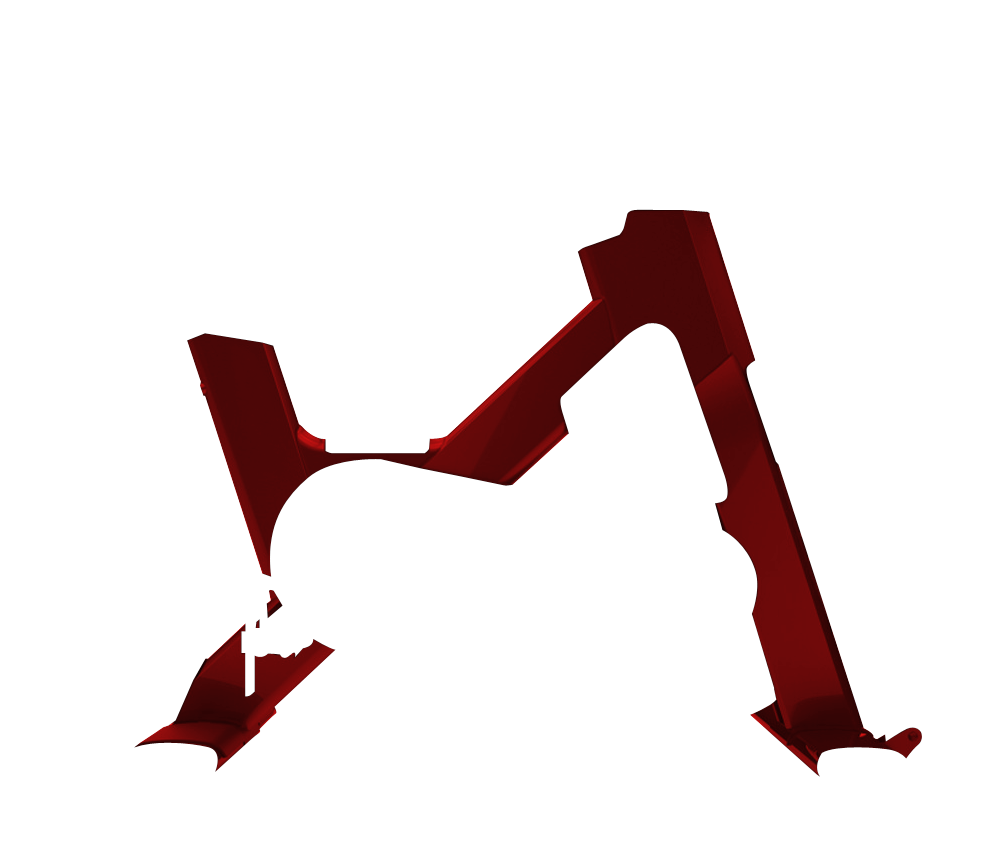
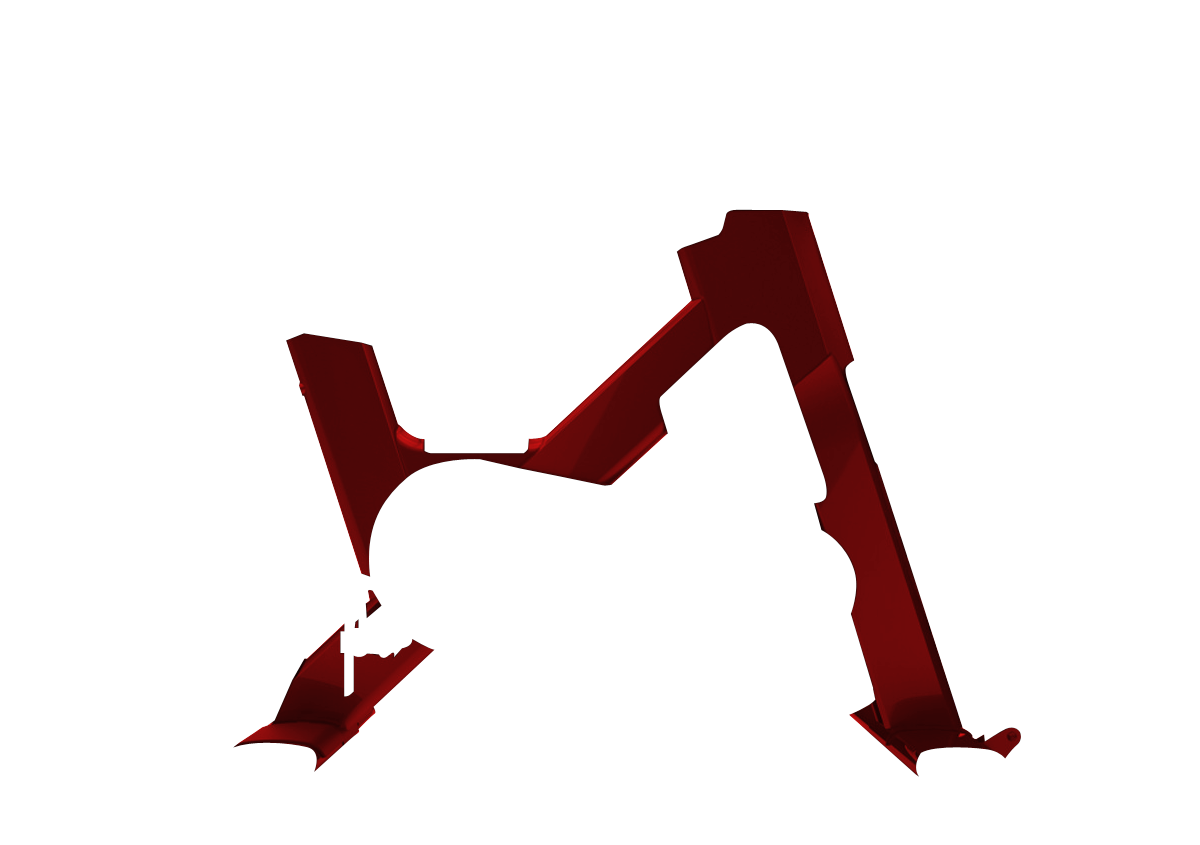
Update color and wheel

diff --git a/public/javascripts/myscript.js b/public/javascripts/myscript.js
@@ -2,7 +2,7 @@ var positions = {'Schwinn AC Sportcycle':{'x':786,'y':599,'width':146,'height':1
 						'Schwinn AC Sportcycle Carbonblue':{'x':920,'y':701,'width':173,'height':188},
 						'Schwinn ACPP Carbonblue':{'x':775,'y':705,'width':187,'height':187},
 						'Schwinn IC Pro 20':{'x':760,'y':535,'width':246,'height':255},
-						'Star Trac Studio 7':{'x':579,'y':452,'width':254,'height':258},
+						'Star Trac Studio 7':{'x':578,'y':453,'width':254,'height':258},
 						'Schwinn IC Pro Cycle':{'x':891,'y':607,'width':328,'height':320},
 						'Star Trac Blade':{'x':806,'y':722,'width':334,'height':341},
 						'Star Trac NXT':{'x':815,'y':731,'width':300,'height':319},
@@ -29,14 +29,14 @@ var positions = {'Schwinn AC Sportcycle':{'x':786,'y':599,'width':146,'height':1
 		bike_load();
 
 		// fabric.Image.fromURL('images/stock-bike.jpg', function(img) {
-		// 	mockup_rate = canvas.width/img.width;
-		// 	mockup_img = img.set({ left: canvas.width/2-img.width*mockup_rate/2, top: canvas.height/2-img.height*mockup_rate/2, angle: 0, scaleX:mockup_rate, scaleY:mockup_rate, style:'opacity: 1;', selectable: false })
+		// 	mockup_rate = ((canvas.width))/img.width;
+		// 	mockup_img = img.set({ left: ((canvas.width))/2-img.width*mockup_rate/2, top: canvas.height/2-img.height*mockup_rate/2, angle: 0, scaleX:mockup_rate, scaleY:mockup_rate, style:'opacity: 1;', selectable: false })
 		// 	canvas.add(mockup_img);
 		// 	canvas.renderAll();
 		// 	fabric.Image.fromURL('images/Frame.png', function(img) {
 		// 		var sss=img.width*mockup_rate;
 		// 		var sss1 = img.height*mockup_rate;
-		// 		frame_img = img.set({ left: canvas.width/2-sss/2, top: canvas.height/2-sss1/2, scaleX:mockup_rate, scaleY:mockup_rate, angle: 0, selectable: false})
+		// 		frame_img = img.set({ left: ((canvas.width))/2-sss/2, top: canvas.height/2-sss1/2, scaleX:mockup_rate, scaleY:mockup_rate, angle: 0, selectable: false})
 		// 		// console.log(frame_img.left+","+frame_img.top);
 		// 		canvas.add(frame_img);
 		// 		canvas.renderAll();
@@ -44,7 +44,7 @@ var positions = {'Schwinn AC Sportcycle':{'x':786,'y':599,'width':146,'height':1
 		// 	// fabric.Image.fromURL('images/wheel.png', function(img) {
 		// 	// 	var sss=img.width*mockup_rate;
 		// 	// 	var sss1 = img.height*mockup_rate;
-		// 	// 	wheel_img = img.set({ left: canvas.width/2-sss/2, top: canvas.height/2-sss1/2, scaleX:mockup_rate, scaleY:mockup_rate, angle: 0, selectable: false})
+		// 	// 	wheel_img = img.set({ left: ((canvas.width))/2-sss/2, top: canvas.height/2-sss1/2, scaleX:mockup_rate, scaleY:mockup_rate, angle: 0, selectable: false})
 		// 	// 	// console.log(frame_img.left+","+frame_img.top);
 		// 	// 	canvas.add(wheel_img);
 		// 	// 	canvas.renderAll();
@@ -65,17 +65,19 @@ var positions = {'Schwinn AC Sportcycle':{'x':786,'y':599,'width':146,'height':1
 			this_wheel_position.height = positions[val].height;
 			canvas.remove(wheel_img);
 			fabric.Image.fromURL('images/'+val+'/'+val1+'.png', function(img) {
-				mockup_rate = canvas.width/img.width<canvas.height/img.height?canvas.width/img.width:canvas.height/img.height;
-				console.log(canvas.width/img.width);
+				mockup_rate = ((canvas.width))/img.width<canvas.height/img.height?((canvas.width))/img.width:canvas.height/img.height;
+				rate11 = ((canvas.width))/img.width;
+				rate12 = canvas.height/img.height;
+				console.log(((canvas.width))/img.width);
 				console.log(canvas.height/img.height);
 				console.log(mockup_rate);
-				mockup_img = img.set({ left: canvas.width/2-img.width*mockup_rate/2, top: canvas.height/2-img.height*mockup_rate/2, angle: 0, scaleX:mockup_rate, scaleY:mockup_rate, style:'opacity: 1;', selectable: false })
+				mockup_img = img.set({ left: ((canvas.width))/2-img.width*mockup_rate/2, top: canvas.height/2-img.height*mockup_rate/2, angle: 0, scaleX:mockup_rate, scaleY:mockup_rate, style:'opacity: 1;', selectable: false })
 				canvas.add(mockup_img);
 				canvas.renderAll();
 				fabric.Image.fromURL('images/'+val+'/'+val1+'-Frame.png', function(img) {
 					sss=img.width*mockup_rate;
 					sss1 = img.height*mockup_rate;
-					frame_img = img.set({ left: canvas.width/2-sss/2, top: canvas.height/2-sss1/2, scaleX:mockup_rate, scaleY:mockup_rate, angle: 0, selectable: false})
+					frame_img = img.set({ left: mockup_img.left, top: mockup_img.top, scaleX:mockup_rate, scaleY:mockup_rate, angle: 0, selectable: false})
 					// console.log(frame_img.left+","+frame_img.top);
 					canvas.add(frame_img);
 					canvas.renderAll();
@@ -84,8 +86,9 @@ var positions = {'Schwinn AC Sportcycle':{'x':786,'y':599,'width':146,'height':1
 				fabric.Image.fromURL('images/'+val+'/'+val1+'-Flywheel.png', function(img) {
 					var sss=img.width*mockup_rate;
 					var sss1 = img.height*mockup_rate;
-					// wheel_img = img.set({ left: canvas.width/2-wheel_offset_x*(canvas.width/2/488), top: canvas.height/2-wheel_offset_y*(canvas.height/2/309), scaleX:mockup_img.scaleX, scaleY:mockup_img.scaleY, angle: 0, selectable:false})
-					wheel_img = img.set({ left: this_wheel_position.x*mockup_rate, top: this_wheel_position.y*mockup_rate, scaleX:mockup_img.scaleX, width:this_wheel_position.width*mockup_rate, height:this_wheel_position.height*mockup_rate, scaleY:mockup_img.scaleY, angle: 0, selectable:false});
+					// wheel_img = img.set({ left: ((canvas.width))/2-wheel_offset_x*(((canvas.width))/2/488), top: canvas.height/2-wheel_offset_y*(canvas.height/2/309), scaleX:mockup_img.scaleX, scaleY:mockup_img.scaleY, angle: 0, selectable:false})
+					// left: (this_wheel_position.x)*mockup_rate+mockup_img.left+100,
+					wheel_img = img.set({ left: mockup_img.width*mockup_img.scaleX-150, top: (this_wheel_position.y)*mockup_rate+mockup_img.top, scaleX:mockup_img.scaleX, scaleY:mockup_img.scaleY, angle: 0, selectable:true});
 					canvas.add(wheel_img);
 					canvas.renderAll();
 					// canvas.setActiveObject(wheel_img);
@@ -258,28 +261,28 @@ var positions = {'Schwinn AC Sportcycle':{'x':786,'y':599,'width':146,'height':1
 							case 0:
 								// $("#seat-url").val(file.name);
 								canvas.remove(seat_img);
-								seat_img = img.set({ left: canvas.width/2-seat_offset_x*(canvas.width/2/488), top: canvas.height/2-seat_offset_y*(canvas.height/2/309), scaleX:20/img.width, scaleY:20/img.width, angle: 0})
+								seat_img = img.set({ left: ((canvas.width))/2-seat_offset_x*(((canvas.width))/2/488), top: canvas.height/2-seat_offset_y*(canvas.height/2/309), scaleX:20/img.width, scaleY:20/img.width, angle: 0})
 								canvas.add(seat_img);
 								canvas.setActiveObject(seat_img);
 								break;
 							case 1:
 								// $("#mark-url").val(file.name);
 								canvas.remove(mark_img);
-								mark_img = img.set({ left:canvas.width/2-mark_offset_x*(canvas.width/2/488), top: canvas.height/2-mark_offset_y*(canvas.height/2/309), scaleX:20/img.width, scaleY:20/img.width, angle: 0})
+								mark_img = img.set({ left:((canvas.width))/2-mark_offset_x*(((canvas.width))/2/488), top: canvas.height/2-mark_offset_y*(canvas.height/2/309), scaleX:20/img.width, scaleY:20/img.width, angle: 0})
 								canvas.add(mark_img);
 								canvas.setActiveObject(mark_img);
 								break;
 							case 2:
 								// $("#text-url").val(file.name);
 								canvas.remove(text_img);
-								text_img = img.set({ left: canvas.width/2-text_offset_x*(canvas.width/2/488), top: canvas.height/2-text_offset_y*(canvas.height/2/309), scaleX:37/img.width, scaleY:37/img.width, angle: 0})
+								text_img = img.set({ left: ((canvas.width))/2-text_offset_x*(((canvas.width))/2/488), top: canvas.height/2-text_offset_y*(canvas.height/2/309), scaleX:37/img.width, scaleY:37/img.width, angle: 0})
 								canvas.add(text_img);
 								canvas.setActiveObject(text_img);
 								break;
 							case 3:
 								// $("#wheel-url").val(file.name);
 								canvas.remove(wheel_img);
-								// wheel_img = img.set({ left: canvas.width/2-wheel_offset_x*(canvas.width/2/488), top: canvas.height/2-wheel_offset_y*(canvas.height/2/309), scaleX:mockup_img.scaleX, scaleY:mockup_img.scaleY, angle: 0, selectable:false})
+								// wheel_img = img.set({ left: ((canvas.width))/2-wheel_offset_x*(((canvas.width))/2/488), top: canvas.height/2-wheel_offset_y*(canvas.height/2/309), scaleX:mockup_img.scaleX, scaleY:mockup_img.scaleY, angle: 0, selectable:false})
 								wheel_img = img.set({ left: this_wheel_position.x*mockup_rate, top: this_wheel_position.y*mockup_rate, scaleX:mockup_img.scaleX, scaleY:mockup_img.scaleY, angle: 0, selectable:true});
 								canvas.add(wheel_img);
 								canvas.setActiveObject(wheel_img);
@@ -295,7 +298,7 @@ var positions = {'Schwinn AC Sportcycle':{'x':786,'y':599,'width':146,'height':1
 			$("#"+id+"atab").click();
 		}
 		$( "#seat-url" ).keydown(function() {
-			var left = canvas.width/2-seat_offset_x*(canvas.width/2/488);
+			var left = ((canvas.width))/2-seat_offset_x*(((canvas.width))/2/488);
 			var top = canvas.height/2-seat_offset_y*(canvas.height/2/309);
 			var font_size = 34;
 			var angle = 0;
@@ -358,7 +361,7 @@ var positions = {'Schwinn AC Sportcycle':{'x':786,'y':599,'width':146,'height':1
 		});
 
 		$( "#mark-url" ).keydown(function() {
-			var left = canvas.width/2-mark_offset_x*(canvas.width/2/488);
+			var left = ((canvas.width))/2-mark_offset_x*(((canvas.width))/2/488);
 			var top = canvas.height/2-mark_offset_y*(canvas.height/2/309);
 			var font_size = 34;
 			var angle = 0;
@@ -421,7 +424,7 @@ var positions = {'Schwinn AC Sportcycle':{'x':786,'y':599,'width':146,'height':1
 		});
 
 		$( "#text-url" ).keydown(function() {
-			var left = canvas.width/2-text_offset_x*(canvas.width/2/488);
+			var left = ((canvas.width))/2-text_offset_x*(((canvas.width))/2/488);
 			var top = canvas.height/2-text_offset_y*(canvas.height/2/309);
 			var font_size = 34;
 			var angle = 0;

diff --git a/views/index.html b/views/index.html
@@ -101,7 +101,7 @@
 							<table>
 								<tbody>
 									<tr>
-										<td><div id="Red" class="swatch swatch-clickable" style="background-color:cyan"></div></td>
+										<td><div id="Red" class="swatch swatch-clickable " style="background-color:cyan"></div></td>
 										<td><div id="Orange" class="swatch swatch-clickable" style="background-color:magenta"></div></td>
 										<td><div id="Banana" class="swatch swatch-clickable" style="background-color:yellow"></div></td>
 										<td><div id="Lemon" class="swatch swatch-clickable" style="background-color:black"></div></td>
